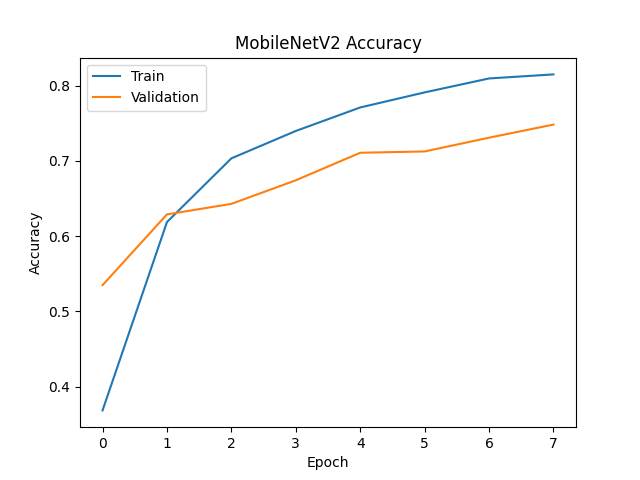
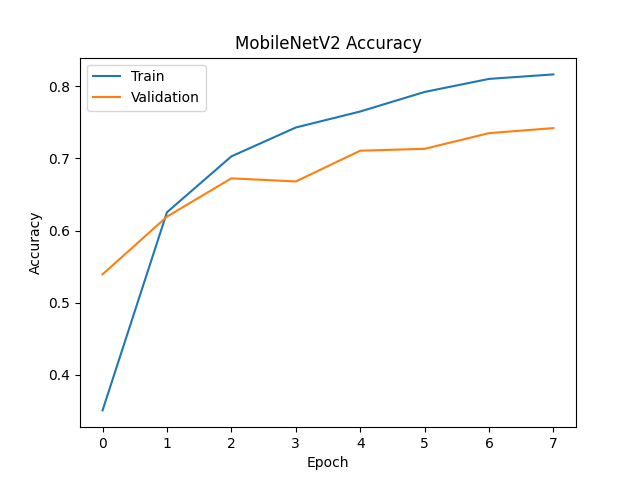
Reorganize git and clean some files

diff --git a/script_split_video.py b/script_split_video.py
@@ -1,3 +1,7 @@
+"""
+Python file to split the ASL video into 299 small videos for each word.
+"""
+
 ###############
 ### Imports ###
 ###############
@@ -7,7 +11,6 @@
 import cv2
 import numpy as np
 import os
-import matplotlib.pyplot as plt
 
 ### Local imports ###
 
@@ -16,16 +19,6 @@ from tools.tools_constants import (
     PATH_VIDEOS,
     LIST_WORDS
 )
-
-
-def calculhisto(I,color):
-    for i,col in enumerate(color):
-        histr = cv2.calcHist([I],[i],None,[256],[0,256])
-        plt.plot(histr,color = col)
-        plt.xlim([0,256])
-    plt.show()
-    
-    
 
 #################
 ### Main code ###
@@ -55,10 +48,12 @@ hand_disappeared = False
 video_number = 0
 video = None
 
+# Initialize the booleans for splitting the video
 bool_split_video = False
 bool_is_recording = False
 bool_start_record = False
 
+# Set the separating ratio between the number of red pixels and blue ones
 limit_ratio_red_blue = 0.99
 
 while True:
@@ -67,19 +62,22 @@ while True:
     if not ret:
         break
 
+    # Isolate the red and blue channels
     red = frame[:,:,0]
     blue = frame[:,:,2]
 
+    # Compute the ratio between the number of red pixels and blue ones
     ratio_red_on_blue = np.sum(red)/np.sum(blue)
 
+    # Split video when the current ratio is above the reference
     if ratio_red_on_blue > limit_ratio_red_blue:
-        # Pause
         bool_split_video = True
     else:
         if not bool_is_recording:
             bool_start_record = True
             bool_is_recording = True
 
+    # Start to record the video and save it the dataset/video_words
     if bool_start_record:
         bool_start_record = False
         video = cv2.VideoWriter(
@@ -90,6 +88,7 @@ while True:
         )
         video_number += 1
 
+    # Finish the video
     if bool_split_video:
         bool_split_video = False
         bool_is_recording = False
@@ -97,6 +96,7 @@ while True:
         if video is not None:
             video.release()
 
+    # When recording, add the current frame
     if bool_is_recording:
         video.write(frame)
     

diff --git a/tools/tools_preprocessing.py b/tools/tools_preprocessing.py
@@ -36,7 +36,7 @@ def normalize_dataset(train_set, validation_set):
 
     return normalized_train_set, normalized_val_set
 
-def loadImage(src, show = True):
+def load_image(src, show = True):
     img=cv2.imread(src,1)
     rgb = cv2.cvtColor(img, cv2.COLOR_BGR2RGB)
     if show : 
@@ -47,6 +47,13 @@ def loadImage(src, show = True):
 def gray_scale(img):
     img_gray= cv2.cvtColor(img, cv2.COLOR_RGB2GRAY)
     return img_gray
+
+def calcul_histogram(I,color):
+    for i,col in enumerate(color):
+        histr = cv2.calcHist([I],[i],None,[256],[0,256])
+        plt.plot(histr,color = col)
+        plt.xlim([0,256])
+    plt.show()
 
 def remove_background(folder_path, folder_destination, file_mode=True):
     if not os.path.exists(folder_destination):

diff --git a/main_video.py b/main_video.py
@@ -32,7 +32,7 @@ from tools.tools_metrics import (
 )
 from tools.tools_preprocessing import (
     canny_detector,
-    loadImage
+    load_image
 )
 
 #################
@@ -78,7 +78,7 @@ def predict_word(idx, word):
     
     for counter_letter in range(5):
         # Open image
-        image = loadImage(path_word_letters_images + f"{counter_letter}_{word[counter_letter]}.png", show = False)
+        image = load_image(path_word_letters_images + f"{counter_letter}_{word[counter_letter]}.png", show = False)
         
         width = image.shape[0]
         height = image.shape[1]

diff --git a/tools/tools_constants.py b/tools/tools_constants.py
@@ -55,11 +55,11 @@ BATCH_SIZE = 32
 
 MODEL_NAME = "mobilenetv2" # mobilenetv2 cnn
 TRAIN_MODE = True
-NUMBER_EPOCHS = 10
+NUMBER_EPOCHS = 8
 BOOL_PREPROCESSING_CONTOURS = True
 BOOL_HSV = False
 BOOL_XYZ = False
-BOOL_LAB = True
+BOOL_LAB = False
 
 def get_5_words_list():
     five_words_list = []

diff --git a/script_split_letters.py b/script_split_letters.py
@@ -1,5 +1,18 @@
+"""
+Python file to isolate the five letters for each video.
+"""
+
+###############
+### Imports ###
+###############
+
+### Python imports ###
+
 import cv2
 import os
+
+### Local imports ###
+
 from tools.tools_constants import (
     PATH_VIDEOS,
     PATH_LIST_WORDS_CLEAN,

diff --git a/script_filter_videos.py b/script_filter_videos.py
@@ -1,3 +1,11 @@
+"""
+Python file to filter the videos by removing the words with j and z.
+"""
+
+###############
+### Imports ###
+###############
+
 ### Python imports ###
 
 import os

diff --git a/README.md b/README.md
@@ -87,7 +87,7 @@ python script_create_dataset.py
 
 To test our model on a real video, we downloaded this [video](https://www.youtube.com/watch?v=yizRk2CP9gs) containing 299 words of 5 letters realized with ASL.
 
-We created then a script to split the video to each word, using a threshold thanks to the hand disappearing from the screen. To get these videos, the user has to run the following command:
+We created then a script to split the video to each word, using a threshold thanks to the hand disappearing from the screen. This threshold corresponds to the ratio between the number of red pixels and the number of blue ones in the image, which is significantly different when the hand is disappearing from the screen. We chose 0.99 as threshold value for this ratio; this value has been determined thanks to the graph we traced at the beginning of the video. This graph can be found in `images/ratio_red_on_blue.png` (and `images/ratio_red_on_blue_250.png`); the abscissa corresponds to the number of frames and the ordinate to the ratio. Overall, to get these individual videos, the user has to run the following command:
 
 ```bash
 python script_split_video.py
